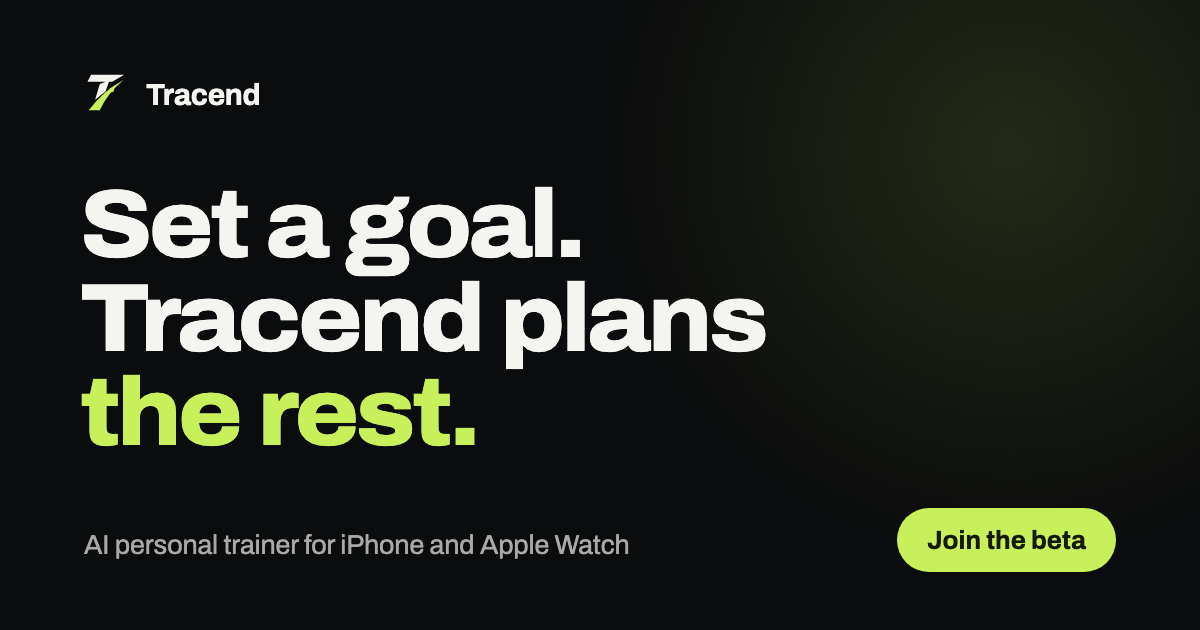
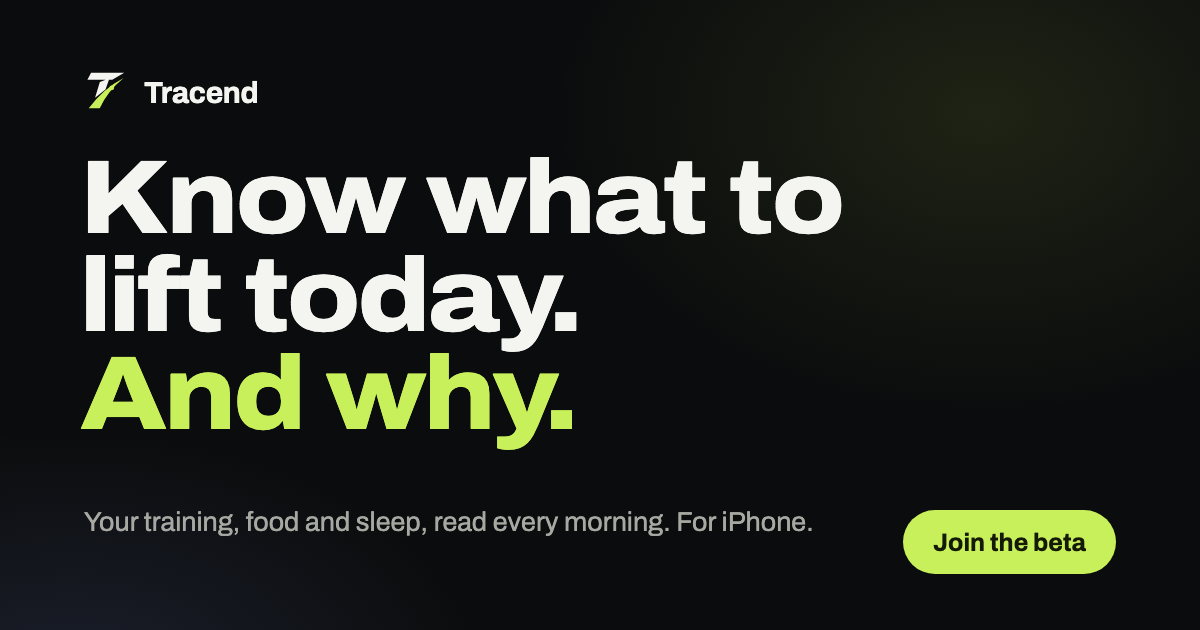
docs(site): claim rules, handoff and preview image for the rebuilt page

diff --git a/site/PRODUCT.md b/site/PRODUCT.md
@@ -42,7 +42,22 @@ is a waitlist signup from someone who understands that loop.
 - Sleep quality, logged workouts (sets, reps, load, effort), training load and its trend, meals
   from a photo with protein and calories, weight trend, progress photos.
 - A daily decision on Today: today's session as planned or adjusted, with the reason in plain words.
-- Coach answers questions using your own numbers.
+  The morning check-in leads; the recovery score alone never changes a session (D9). The page's
+  exact-load call ("Deadlift 3 × 3 at 140 kg, effort 7 at most") is the owner's pre-launch build
+  (owner, 2026-11-27); until it ships the app words the change ("lighter", "one set fewer").
+- Coach answers questions using your own numbers, and can look up any day the athlete logged
+  (sets, meals, sleep, weight, past plans), with the evidence it used and the gaps.
+- Plan changes asked for in chat (away or travel, diet break, swap an exercise, take a break): the
+  Coach card shows Now and After, nothing applies until Approve, and Undo works for 7 days.
+- Lock Screen and Dynamic Island set logging (Live Activity): the next set and a rest timer with
+  +30s and Skip; Log set logs the pre-filled values. Never promise editing weight or reps there.
+- Next-session targets from logged sets (top of the rep range on every set moves the load up),
+  with "Last time" and "Your best".
+- Meal photos that read nutrition labels, check the label's maths, and let the athlete pick the
+  portion; each item says "From label" or "Estimated".
+- The pain check: where, how strong, when; today's exercise is swapped or shortened for that joint,
+  only today changes, and it says when to see a professional. No injury, rehab or medical wording.
+- Facts the athlete confirms are remembered and re-checked later ("Still true?").
 - Plans are approved by you and saved as versions; nothing in the plan changes without that.
 - The plan still works when the AI, Apple Health or the network is down.
 - Platforms: iPhone; Apple Watch recommended, never required; Android in testing. Say "For
@@ -58,31 +73,27 @@ Shipped features from docs/PRD.md and docs/UX_FLOWS.md, and where the page shows
 
 | Feature | Where on the page |
 | --- | --- |
-| Plans shaped by age, sex, history and limits; the profile remembers answers, limits, preferences | "Made for you. Never a template." (and the hero) |
-| Onboarding: goal, about you, schedule, equipment, limits, current lifts, focus | "Your plan, in three steps", step 1 |
-| Apple Health usual months, coach questions (0 to 3), experienced path keeps what works | "Your plan, in three steps", step 2 |
-| Plan proposal: training week, starting loads, nutrition targets, reasoning; approve, request changes, reject | "Your plan, in three steps", step 3 |
-| Set logging with effort, new bests | Story, "You train hard"; bento |
-| Meal photo, then confirm | Bento, "Food"; the hero's dinner card on wide screens |
-| Sleep and recovery score from five drivers, morning check-in | Story, "You sleep short", "Your body answers"; demo |
-| Today's session adjusted, with the reason | Story, "Today, adjusted"; "Other apps stop at the score" |
-| Muscle map for the plan's week | "Every workout, mapped to your body" |
-| Weight trend and body measurements (waist, chest, hip, arm, thigh) toward the goal, strength (workouts done, best lifts) | "It checks your progress" |
-| Weekly review, calculated from logs, no AI | "It checks your progress" |
-| Progress photos (private) and physique check setting focus muscles (owner, 2026-10-13: live, no "testing" label; keep "AI visual estimate, not a measurement"; confirmed 2026-10-15) | "It checks your progress" |
-| Coach chat with evidence and data gaps | "Ask your Coach anything" |
-| Plan changes need approval; versions kept | Bento line; "Other apps stop at the score" |
-| Plan works when AI, Apple Health or network is down | Bento line |
-| Export and delete your data; AI only after consent, turn AI off | Join section trust line; privacy page |
+| Onboarding: goal, about you, schedule, equipment, limits, current lifts; Apple Health usual months; up to three coach questions; proposal with reasons; approve | "Your plan, in three steps" |
+| Set logging with effort, new bests | Story, "You train hard" |
+| Morning check-in leads the daily call | Story, "You check in"; demo note |
+| Sleep and recovery score from five drivers | Story, "You sleep short", "Your body answers"; demo |
+| Today's session adjusted, with the reason | Hero (the Coach's call); story, "Today, adjusted"; demo |
+| Plan changes from chat, Now and After, Approve, Undo 7 days; versions kept | "Nothing changes until you say yes." |
+| Lock Screen / Dynamic Island set logging | "It handles the in-between", card 1 |
+| Next-session targets from logged sets | "It handles the in-between", card 2 |
+| Meal photo and nutrition labels, portion, confirm | "It handles the in-between", card 3 |
+| Pain check, today's swap | "It handles the in-between", card 4 |
+| Remembered facts, "Still true?"; profile limits and preferences | "It handles the in-between", card 5 |
+| Coach chat with lookups across history, evidence and data gaps | "Ask your Coach anything. It knows your history." |
+| Weight trend and measurements, strength, weekly review (no AI), physique check (AI visual estimate, not a measurement) | "It checks your progress" |
+| Export and delete your data; AI only after consent, turn AI off | Join section trust lines; privacy page |
+| Plan works when AI, Apple Health or network is down | Not on the page since 2026-11-27 (true; say it again only where it earns its place) |
 
 ## Coming next (owner decision, 2026-10-13)
 
-Shown only under a label reading "Coming next. Not in the beta yet.", never with a date. Since
-2026-11-15 it is one short row at the end of "Five apps that never talk to each other", not a
-section of its own: the page sells what the beta has.
-- Live Activity for a workout in progress: the Dynamic Island keeps the session after you leave
-  the app, and you log sets (weight, reps) from the Dynamic Island or the Lock Screen.
-- An Apple Watch app for logging sets.
+Only ever under a label reading "Coming next. Not in the beta yet.", never with a date. Since
+2026-11-27 the page shows no coming-next row: Live Activity set logging shipped (#161) and is a
+card in "It handles the in-between". Still not built: an Apple Watch app for logging sets.
 
 ## Claims the site must not make
 
@@ -96,30 +107,45 @@ section of its own: the page sells what the beta has.
   what is planned.
 - Heart rate during sets, per-set response, streaks, or a 3D body model, until they ship. The body
   map is the app's 2D front and back muscle map.
-- Automatic daily plan swaps that need an Approve tap, until persistent proposals ship. Today's
-  adjustment is advice shown with its reason.
+- An Approve tap on today's adjustment: it is advice shown with its reason. Approve belongs to plan
+  changes asked for in chat.
 - Cause and effect between a session and a night ("shown alongside", not "caused").
 - "Tracks 24/7 without a watch", "no subscription", medical or diagnostic wording.
+- The physique check as open to every tester: the server runs it only for accounts on its allow-list
+  (`PHYSIQUE_VISION_ALLOWED_USERS`, owner-only until the AI_SAFETY_SPEC §9 evaluation passes). The
+  page keeps it under "It checks your progress"; widen the allow-list or relabel it before testers
+  expect it (owner, 2026-11-27).
 - Ratings, testimonials, user counts or press that don't exist.
 
-## Page structure (2026-11-15)
+## Page structure (2026-11-27)
 
 The page is a pitch, in this order: hero (headline, one line, the form, the Coach's call) → the
-story → try it (the sliders) → five apps in one → made for you → Coach → progress → muscle map →
-"Other apps stop at the score" → three steps to a plan → join.
+story → try it (the sliders) → "Nothing changes until you say yes." → "It handles the in-between."
+→ Coach → progress → three steps → join. About 18 phone screens; keep it from growing.
 
-- The story answers one question, "How did it know to go lighter?", in four moments of one day:
-  train, sleep, recovery, adjust. Each moment rests long enough to read. Do not add moments that
-  are not part of that answer; other features have their own sections.
-- The hero copy and form never wait for a script, and on a phone the form is on the first screen.
+- The hero headline names the morning moment ("Know what to lift today. And why."). A reel can
+  link to its own headline with `?v=sleep`, `?v=log` or `?v=coach` (an inline script swaps it
+  before first paint; set the reel's `utm_content` to the same word so signups can be compared).
+- The hero copy sits outside the pinned stage. On a phone it scrolls like the page and never
+  fades, so a form someone is typing in stays put; the phone peeks out under it and rises into the
+  stage. On a laptop it lies over the stage's left column and fades as it scrolls off.
+- The story answers one question, "How did it know to go lighter?", in five moments of one day:
+  train, sleep, check in, recovery, adjust. Sam's numbers meet the app's rules (sleep under 6 h,
+  check-in sore, recovery under 35). Do not add moments that are not part of that answer.
+- The hero copy and form never wait for a script, and on a phone the form and the Coach's call are
+  on the first screen.
 - One primary action, "Join the beta", always lime (`.btn-primary`, the nav button, the form
-  button). White is for selected states (tabs, segmented controls) only.
+  button, the docked button). White is for selected states (tabs, segmented controls) only.
+- On phones a docked "Join the beta" button slides up once the hero form has scrolled away and
+  steps aside near the closing form and while the keyboard is up; the nav button hides meanwhile.
 - Time is a small label on each moment, never the largest thing on screen.
 - Anything shown beside the hero phone lives in the phone's own tilt and light (inside
   `.dev-tilt`): what it read sits behind its left edge, its answer in front. Never lay a flat card
   over the tilted phone. On a phone the answer is a notification on the phone's screen.
 - On a phone nothing scrolls visibly behind the menu, and anything that sticks or docks slides in
   and out; it never snaps.
+- Mock UIs in the new sections are rebuilt from the shipped app's code (the file each one follows
+  is listed in Change.astro and Extras.astro); change them when the app changes.
 
 ## Voice
 

diff --git a/docs/handoff/website.md b/docs/handoff/website.md
@@ -1,6 +1,6 @@
 # Website and Waitlist Handoff
 
-**As of:** 2026-11-15
+**As of:** 2026-11-27
 
 ## State
 
@@ -72,6 +72,28 @@
     heading is "Your plan starts with a goal." and the outlined clock there is gone.
   - Page length on a 390 px phone went from about 25,000 px to about 17,800 px.
   - Rules for future edits are in `site/PRODUCT.md`, "Page structure".
+- 2026-11-27 (`claude/landing-v2`): rebuilt before paid Instagram traffic, after six reviews
+  (cold visitors, product truth, competitors, impeccable critique 72%, technical audit, a hands-on
+  teardown of WHOOP, Athlytic, Bevel, Future, Ladder and others).
+  - Hero: "Know what to lift today. And why.", a 16-word lede, the form, and on phones the
+    Coach's call as a notification on the phone's screen inside the first screen. `?v=sleep`,
+    `?v=log`, `?v=coach` swap the headline per reel before first paint.
+  - The hero copy moved outside the pinned stage. Before, it faded from the first pixel of
+    scroll, so on an iPhone the keyboard's own scroll could fade the field someone was typing in.
+    Now it scrolls like the page on phones; the phone rises under it and the stage pins after.
+  - Sam's day has five moments: the morning check-in leads (D9), sleep 5 h 48 m, recovery 34
+    Poor; the demo counts readiness points the app's way.
+  - New: "Nothing changes until you say yes." (a chat plan change with Now/After, Approve, Undo)
+    and "It handles the in-between." (Lock Screen logging, next targets, labels, pain check,
+    memory), each mock rebuilt from the shipped code. Removed: the five-apps bento, the two
+    example athletes, the muscle map, "Other apps stop at the score", the coming-next row and
+    their code. About 18 phone screens, down from 23.
+  - Phones get a docked "Join the beta" button after the hero form scrolls away.
+  - Launch fixes: the form is wired before the motion code (`join-boot.js`) and a pre-JS submit
+    does nothing instead of putting the email in the URL; a failure in `page.js` leaves a static
+    page; Turnstile retries once and then points to the system browser; the waitlist allows 30
+    tries per network per hour (migration `20261127120000`); `/_astro/*` is cached for a year;
+    the privacy page names Cloudflare Web Analytics.
 - Follow-up after the Phase 2 cutover plus its 2-week rollback window: remove DeepSeek and Groq
   from the processor list in `site/src/pages/privacy.astro`, update its date and `LegalNotices.privacyVersion`
   (athletes are asked again). A new AI company
@@ -144,10 +166,15 @@ by changing the secrets, and update the processor list in `site/src/pages/privac
 
 - The first live join needs the owner's own email: confirm the email arrives, the link confirms,
   and unsubscribe works.
-- The redesign was checked in a desktop browser from 1100x720 to 1920x1080 and at 393x852, plus
-  the short and sideways page. It has not been tried on a real iPhone or inside the Instagram in-app browser: do that
-  from the preview link before paying for ads (watch the pinned story while the address bar
-  hides and shows).
+- The 2026-11-27 page was checked in the browser pane at phone and desktop sizes. It has not been
+  tried on a real iPhone or inside the Instagram in-app browser: do that from the preview link
+  before paying for ads (type in the hero form with the keyboard up; watch the pinned story while
+  the address bar hides and shows).
+- Owner steps after merge: turn on Cloudflare Web Analytics for the Pages project (Workers & Pages,
+  tracend, Metrics), and give each reel a link like `?v=sleep&utm_source=instagram&utm_campaign=…&utm_content=sleep`.
+- The physique check is shown on the page but runs only for accounts on
+  `PHYSIQUE_VISION_ALLOWED_USERS` (owner-only). Widen it or relabel the page before testers expect it.
+- The plan-change example uses fixed dates (13 Dec, 30 Nov, 4 Dec); refresh them after mid-December.
 - The page has no founder line, tester count or testimonial, by rule. A true one-line "who built
   this" from the owner would help; it needs the owner's words.
 - Add `Website Build` to the required checks if wanted.

diff --git a/docs/PROGRESS_CONTEXT.md b/docs/PROGRESS_CONTEXT.md
@@ -138,7 +138,7 @@ with both v2 photo notices published; Groq receives nothing. Onboarding uses its
   migration `20261104103729`, in review): Change my setup cannot be left while an approval saves,
   Account always announces when the flow closes, and a starter-schedule refresh is audited
   (`nutrition.schedule.refreshed`). Handoff: [`onboarding.md`](./handoff/onboarding.md).
-- website: home page redesign (2026-11-15, `claude/landing-redesign`, in review): a four-step story that answers "How did it know to go lighter?", the same pinned story on phones, the form on the first phone screen, one lime primary button, sections reordered, "Coming next" cut to one row, page about 30% shorter on a phone. Same PR, after the owner's iPhone check: hero cards sit in the phone's 3D space, the Coach's call is a notification on the phone's screen, content fades out under the menu, the demo readout docks with a transition, and each block fades in on its own. W1 merged (#108); the site publishes once the owner sets the `CONTACT_EMAIL` variable. Beta terms and consent (2026-11-02, `claude/beta-terms-consent`, migration `20261102143719`, in review): app beta terms at `/beta-terms/` (a draft for a lawyer), privacy page fixes (controller and grievance contact, workout and sleeping heart rate, explicit health-data consent, processor wording), onboarding rows that open both pages plus a separate `health_data` consent, Account links, page versions = "Last updated" dates kept equal to `LegalNotices` by a test, and a launch screen that asks onboarded athletes again when a page changes (fails open; the owner sees it once after installing). Handoff: [`website.md`](./handoff/website.md).
+- website: rebuilt for paid traffic (2026-11-27, `claude/landing-v2`, in review): the morning call leads the hero with a headline per reel (`?v=`), the hero form scrolls instead of fading (keyboard-safe), Sam's day gains the check-in with numbers that meet D9, new plan-change and in-between sections, four sections cut (about 18 phone screens), a docked Join button on phones, and launch fixes (form wired before the motion code, waitlist 30 tries per network per hour, Turnstile fallback, asset caching, Cloudflare Web Analytics on the privacy page). Earlier, home page redesign (2026-11-15, `claude/landing-redesign`, merged): a four-step story that answers "How did it know to go lighter?", the same pinned story on phones, the form on the first phone screen, one lime primary button, sections reordered, "Coming next" cut to one row, page about 30% shorter on a phone. Same PR, after the owner's iPhone check: hero cards sit in the phone's 3D space, the Coach's call is a notification on the phone's screen, content fades out under the menu, the demo readout docks with a transition, and each block fades in on its own. W1 merged (#108); the site publishes once the owner sets the `CONTACT_EMAIL` variable. Beta terms and consent (2026-11-02, `claude/beta-terms-consent`, migration `20261102143719`, in review): app beta terms at `/beta-terms/` (a draft for a lawyer), privacy page fixes (controller and grievance contact, workout and sleeping heart rate, explicit health-data consent, processor wording), onboarding rows that open both pages plus a separate `health_data` consent, Account links, page versions = "Last updated" dates kept equal to `LegalNotices` by a test, and a launch screen that asks onboarded athletes again when a page changes (fails open; the owner sees it once after installing). Handoff: [`website.md`](./handoff/website.md).
 - ui: U3 launch speed merged (#126, 2026-10-17: tabs load on first open, launch reads 22 to 6,
   cover-sized photo decoding). Device speed budgets still to record.
   U1 glass tab bar live (#107). The owner did not like it (2026-10-15): a U2 design pass with a prototype comes next.
